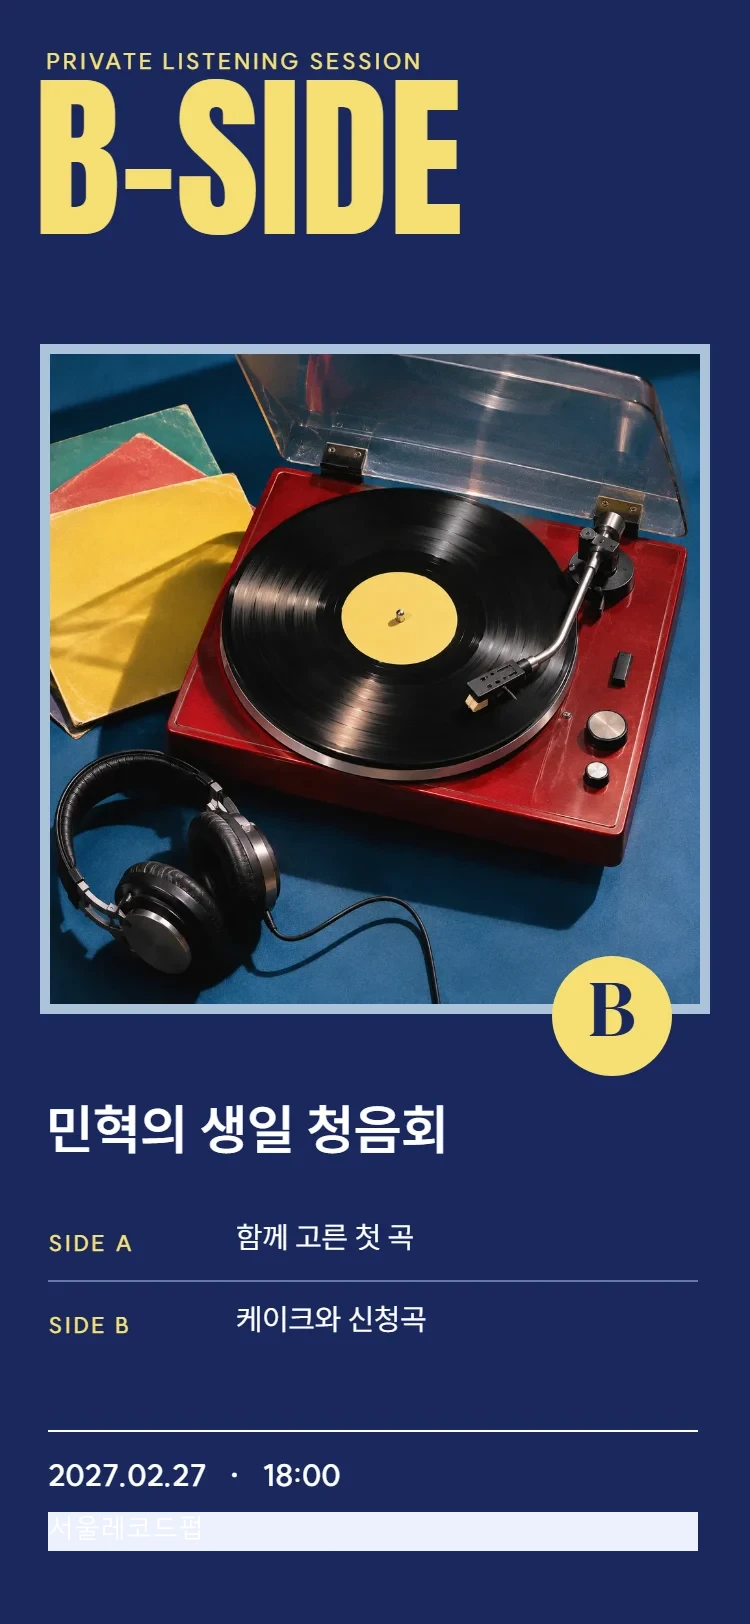
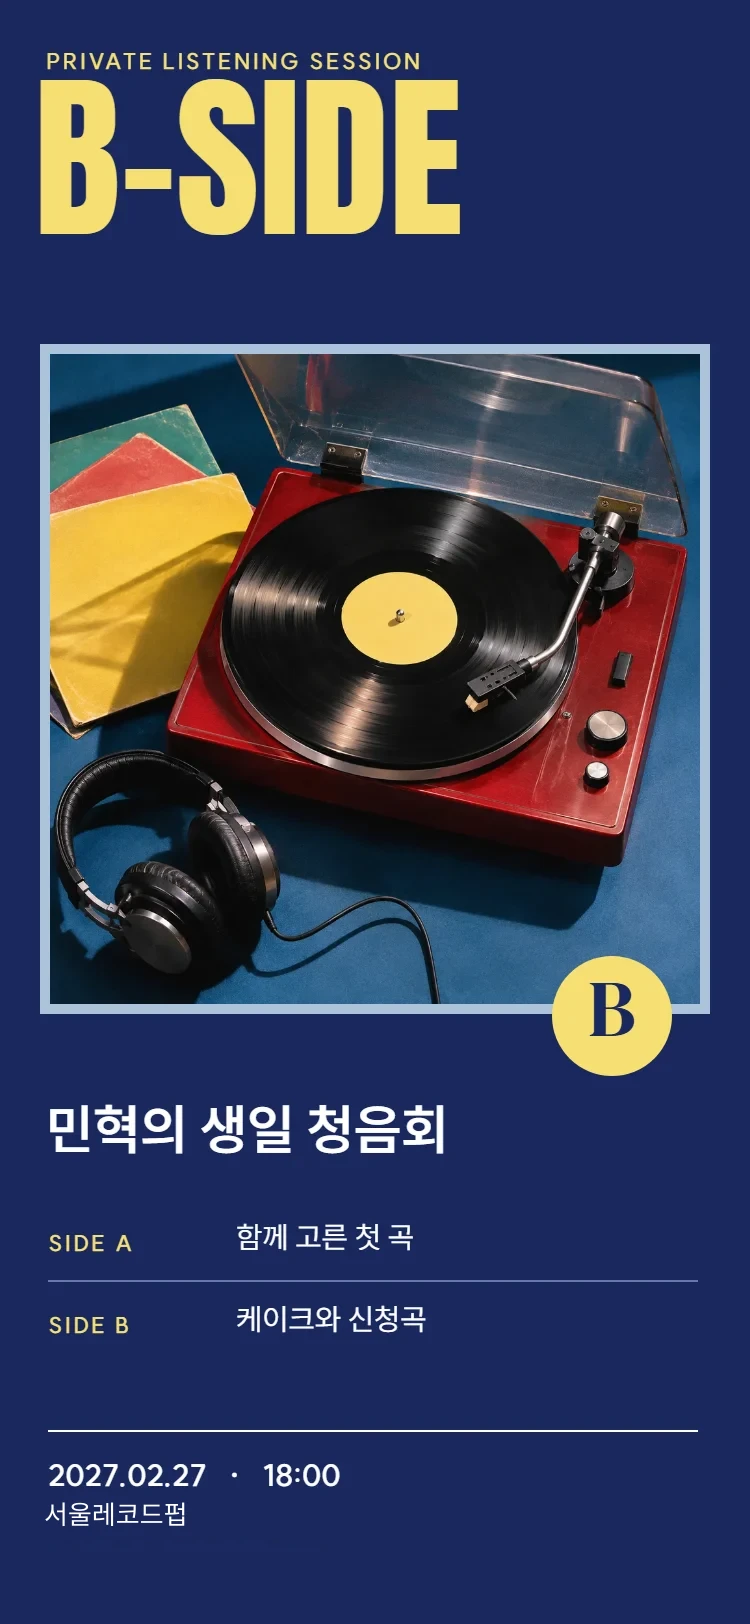
fix(templates): 팔순 가족 잔치 표지 장소 본문과 일치 및 썸네일 가독성 개선

Changed region(s): [[0.0613, 0.9236, 0.9507, 0.9544]]

diff --git a/widgets/editor/preview/components/posterExampleText.ts b/widgets/editor/preview/components/posterExampleText.ts
@@ -30,7 +30,7 @@ const exampleDetails = new Set([
   '1층 소나무실',
   '2027년 6월 5일',
   '토요일 오후 1시',
-  '솔마루 정원',
+  '삼청각 유하정',
   '1층 정원실',
   '민준이의',
   '민 준 이 의 첫 생 일',
